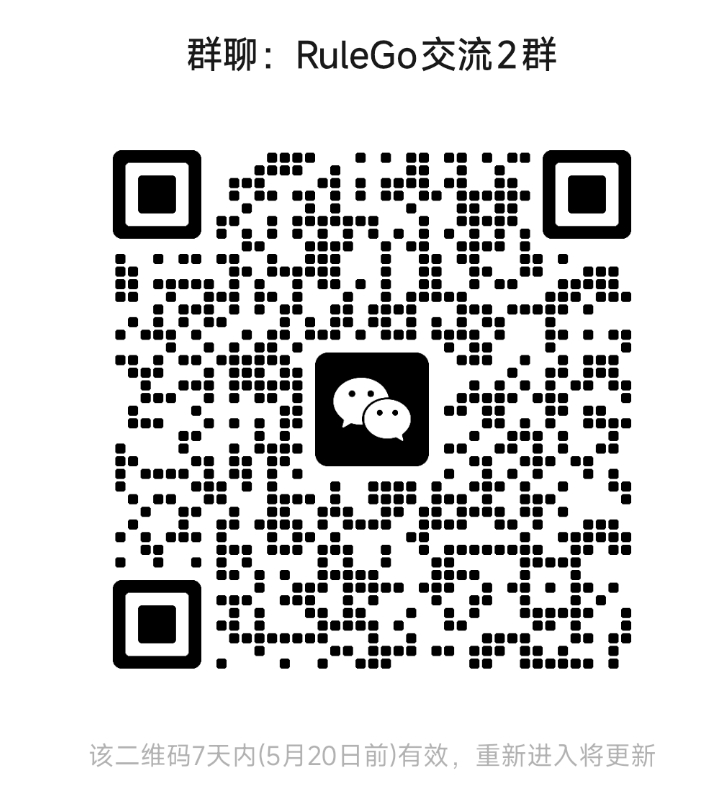
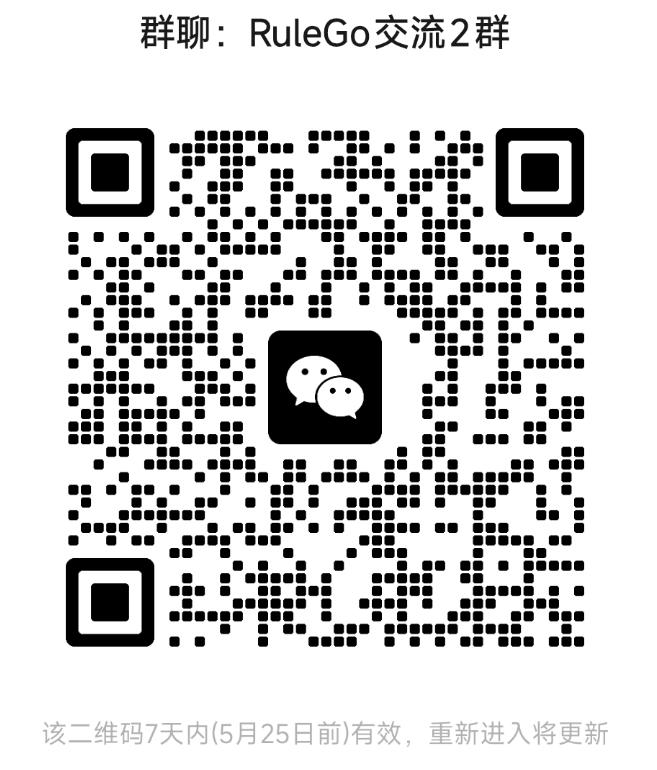
chore:更新群二维码

diff --git a/docs/en/10.Advanced Topic/01.Config.md b/docs/en/10.Advanced Topic/01.Config.md
@@ -5,7 +5,7 @@ author:
   name: rulego
   link: https://github.com/rulego/rulego
 date: 2023-09-13 21:24:41
-permalink: /pages/config/
+permalink: /pages/d59341/
 ---
 ---
 title: Config

diff --git a/docs/01.指南/10.高级主题/01.config.md b/docs/01.指南/10.高级主题/01.config.md
@@ -5,7 +5,7 @@ author:
 name: rulego
 link: https://github.com/rulego/rulego
 date: 2023-09-13 21:24:41
-permalink: /pages/config/
+permalink: /pages/d59341/
 ---
 
 
